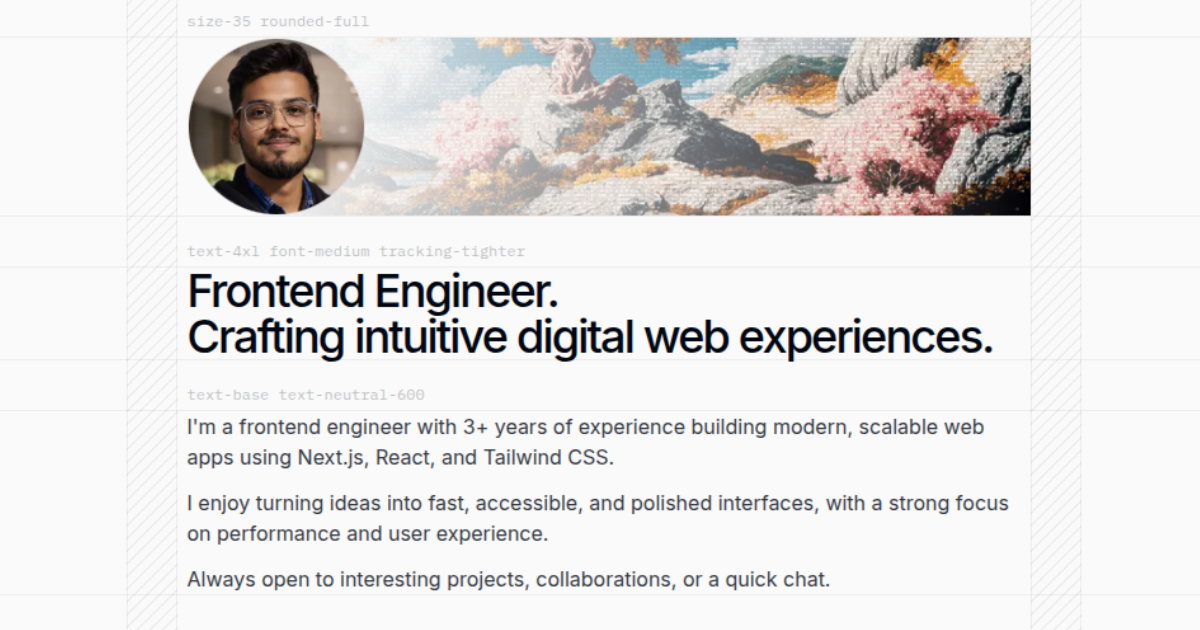
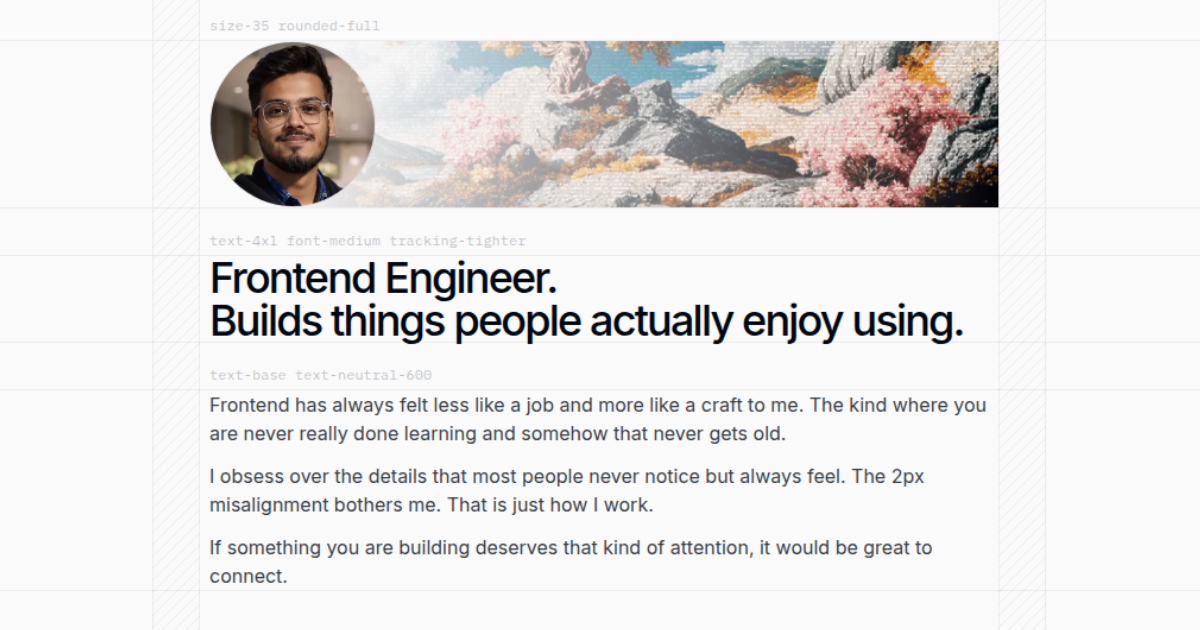
chore: refresh copy, spring animations, and minor polish across sections

Changed region(s): [[0.1542, 0.0302, 0.8633, 0.9349]]

diff --git a/components/hero/index.tsx b/components/hero/index.tsx
@@ -31,7 +31,7 @@ export function Hero() {
         <Container>
           <Heading as="h1">
             Frontend Engineer.
-            <br /> Crafting intuitive digital web experiences.
+            <br /> Builds things people actually enjoy using.
           </Heading>
         </Container>
       </ContainerFluid>
@@ -45,18 +45,19 @@ export function Hero() {
       <ContainerFluid>
         <Container>
           <SubHeading className="mb-3">
-            I'm a frontend engineer with 3+ years of experience building modern,
-            scalable web apps using Next.js, React, and Tailwind CSS.
+            Frontend has always felt less like a job and more like a craft to
+            me. The kind where you are never really done learning and somehow
+            that never gets old.
           </SubHeading>
 
           <SubHeading className="mb-3">
-            I enjoy turning ideas into fast, accessible, and polished
-            interfaces, with a strong focus on performance and user experience.
+            I obsess over the details that most people never notice but always
+            feel. The 2px misalignment bothers me. That is just how I work.
           </SubHeading>
 
           <SubHeading>
-            Always open to interesting projects, collaborations, or a quick
-            chat.
+            If something you are building deserves that kind of attention, it
+            would be great to connect.
           </SubHeading>
         </Container>
       </ContainerFluid>
@@ -66,7 +67,7 @@ export function Hero() {
 
 function Banner() {
   return (
-    <div className="pointer-events-none absolute top-0 -z-1 h-full w-full mask-l-to-90% select-none">
+    <div className="pointer-events-none absolute top-0 right-2 -z-1 h-full w-full mask-l-to-90% select-none sm:right-0">
       <Image
         src="https://res.cloudinary.com/ddws3mapm/image/upload/v1777739508/20260502_201645_a9ku8d.jpg"
         fill

diff --git a/components/stack/index.tsx b/components/stack/index.tsx
@@ -20,7 +20,7 @@ function Stack() {
 
       <ContainerFluid>
         <Container>
-          <Heading>Stack</Heading>
+          <Heading>Tools I reach for without thinking twice</Heading>
         </Container>
       </ContainerFluid>
 
@@ -46,7 +46,14 @@ function Stack() {
                   })
                 }
               >
-                <Image src={t.icon} alt="" width={12} height={12} />
+                <Image
+                  src={t.icon}
+                  alt=""
+                  width={12}
+                  height={12}
+                  draggable={false}
+                  className="pointer-events-none select-none"
+                />
                 <span className="font-ibm-plex-mono text-xs leading-none">
                   {t.name}
                 </span>

diff --git a/components/button.tsx b/components/button.tsx
@@ -6,7 +6,7 @@ import { cva, type VariantProps } from "class-variance-authority";
 import * as React from "react";
 
 const buttonVariants = cva(
-  "group cursor-pointer inline-flex items-center justify-center text-sm transition-all duration-150 ease-out select-none focus:outline-none focus-visible:ring-2 focus-visible:ring-neutral-600/20 disabled:opacity-50 disabled:cursor-not-allowed hover:-translate-y-px active:translate-y-1 rounded-md",
+  "group cursor-pointer inline-flex items-center justify-center text-sm transition-all duration-150 ease-out select-none focus:outline-none focus-visible:ring-2 focus-visible:ring-neutral-600/20 disabled:opacity-50 disabled:cursor-not-allowed hover:-translate-y-px active:translate-y-0.5 rounded-md",
   {
     variants: {
       variant: {

diff --git a/components/projects/data.ts b/components/projects/data.ts
@@ -2,7 +2,7 @@ export const projects = [
   {
     id: "1",
     title: "Sparkflo",
-    description: "You can build complex AI workflow in minutes.",
+    description: "Node based canvas for building AI workflows.",
     banner:
       "https://res.cloudinary.com/ddws3mapm/image/upload/v1777547551/sparkflo_hgq64m.png",
     live: "https://sparkflo.pankajghosh.in",
@@ -11,7 +11,7 @@ export const projects = [
   {
     id: "2",
     title: "Nexus Dark",
-    description: "Vs code theme focused on readability.",
+    description: "VS code theme focused on readability.",
     banner:
       "https://res.cloudinary.com/ddws3mapm/image/upload/v1777552464/nexus-dark_rcf2xf.png",
     live: "https://open-vsx.org/extension/pankajghosh/nexus-dark",

diff --git a/app/(app)/layout.tsx b/app/(app)/layout.tsx
@@ -1,3 +1,4 @@
+import { Pattern } from "@/components/pattern";
 import {
   geist,
   ibmPlexMono,
@@ -10,11 +11,10 @@ import { FontProvider } from "@/providers/font-provider";
 import { ThemeProvider } from "@/providers/theme-provider";
 import type { Metadata } from "next";
 import "./globals.css";
-import { Pattern } from "@/components/pattern";
 
 export const metadata: Metadata = {
   title: "Pankaj Ghosh",
-  description: "Frontend Engineer. Crafting intuitive digital web experiences.",
+  description: "Frontend Engineer.Builds things people actually enjoy using.",
 };
 
 export default function RootLayout({

diff --git a/components/settings/index.tsx b/components/settings/index.tsx
@@ -129,7 +129,7 @@ export function SettingsContent({ children }: { children: React.ReactNode }) {
         scale: open ? 1 : 0.3,
         filter: open ? "none" : "blur(10px)",
       }}
-      transition={{ duration: 0.25, ease: "easeInOut" }}
+      transition={{ duration: 0.3, type: "spring", bounce: 0.2 }}
       style={{ originX: 1, originY: 0 }}
       className={cn(
         "absolute -top-1.25 right-0 flex h-86.75 w-70 flex-col overflow-hidden rounded-lg border border-neutral-200 bg-neutral-100 shadow-md dark:border-neutral-700 dark:bg-neutral-800",

diff --git a/components/experience/index.tsx b/components/experience/index.tsx
@@ -34,7 +34,7 @@ Experience.Header = function Header() {
 
       <ContainerFluid>
         <Container>
-          <Heading>Experience</Heading>
+          <Heading>I showed up, I learned, I delivered</Heading>
         </Container>
       </ContainerFluid>
 
@@ -166,10 +166,6 @@ Experience.Tech = function Tech({ tech }: { tech: string[] }) {
     </div>
   );
 };
-
-/* =========================
-   Usage (Clean & Declarative)
-========================= */
 
 export default function ExperienceSection() {
   return (

diff --git a/components/footer/index.tsx b/components/footer/index.tsx
@@ -33,7 +33,7 @@ function Footer() {
 
       <div className="border-border border-b">
         <Container>
-          <SubHeading className="mx-auto max-w-[90%] text-center text-sm sm:max-w-xl md:text-base">
+          <SubHeading className="mx-auto max-w-[90%] text-center text-sm sm:max-w-[75%] sm:text-base md:max-w-xl">
             This portfolio is highly inspired by the{" "}
             <Link
               href="https://tailwindcss.com/"

diff --git a/components/accordion.tsx b/components/accordion.tsx
@@ -88,7 +88,7 @@ export function AccordionContent({
     <motion.div
       initial={false}
       animate={{ height: open ? "auto" : 72 }}
-      transition={{ duration: 0.3, ease: "easeInOut" }}
+      transition={{ duration: 0.6, type: "spring", bounce: 0.2 }}
       className={cn(
         "overflow-hidden",
         open ? "mask-none" : "mask-b-from-0% mask-b-to-100%",

diff --git a/actions/setFont.ts b/actions/setFont.ts
@@ -1,6 +1,7 @@
 "use server";
 
 import { allowedFonts } from "@/lib/fonts";
+import { revalidatePath } from "next/cache";
 import { cookies } from "next/headers";
 
 export async function setFont(formData: FormData) {
@@ -12,4 +13,6 @@ export async function setFont(formData: FormData) {
   }
 
   cookieStore.set("font", font);
+
+  revalidatePath("/");
 }

diff --git a/components/stack/data.ts b/components/stack/data.ts
@@ -44,7 +44,7 @@ export const tech = [
   // State Management
   {
     id: "14",
-    name: "Redux",
+    name: "Redux Toolkit",
     icon: "https://cdn.jsdelivr.net/gh/devicons/devicon/icons/redux/redux-original.svg",
     link: "https://redux.js.org/",
   },

diff --git a/components/projects/index.tsx b/components/projects/index.tsx
@@ -23,7 +23,7 @@ function Projects() {
 
       <ContainerFluid>
         <Container>
-          <Heading>Projects</Heading>
+          <Heading>Things I actually built and shipped</Heading>
         </Container>
       </ContainerFluid>
 
